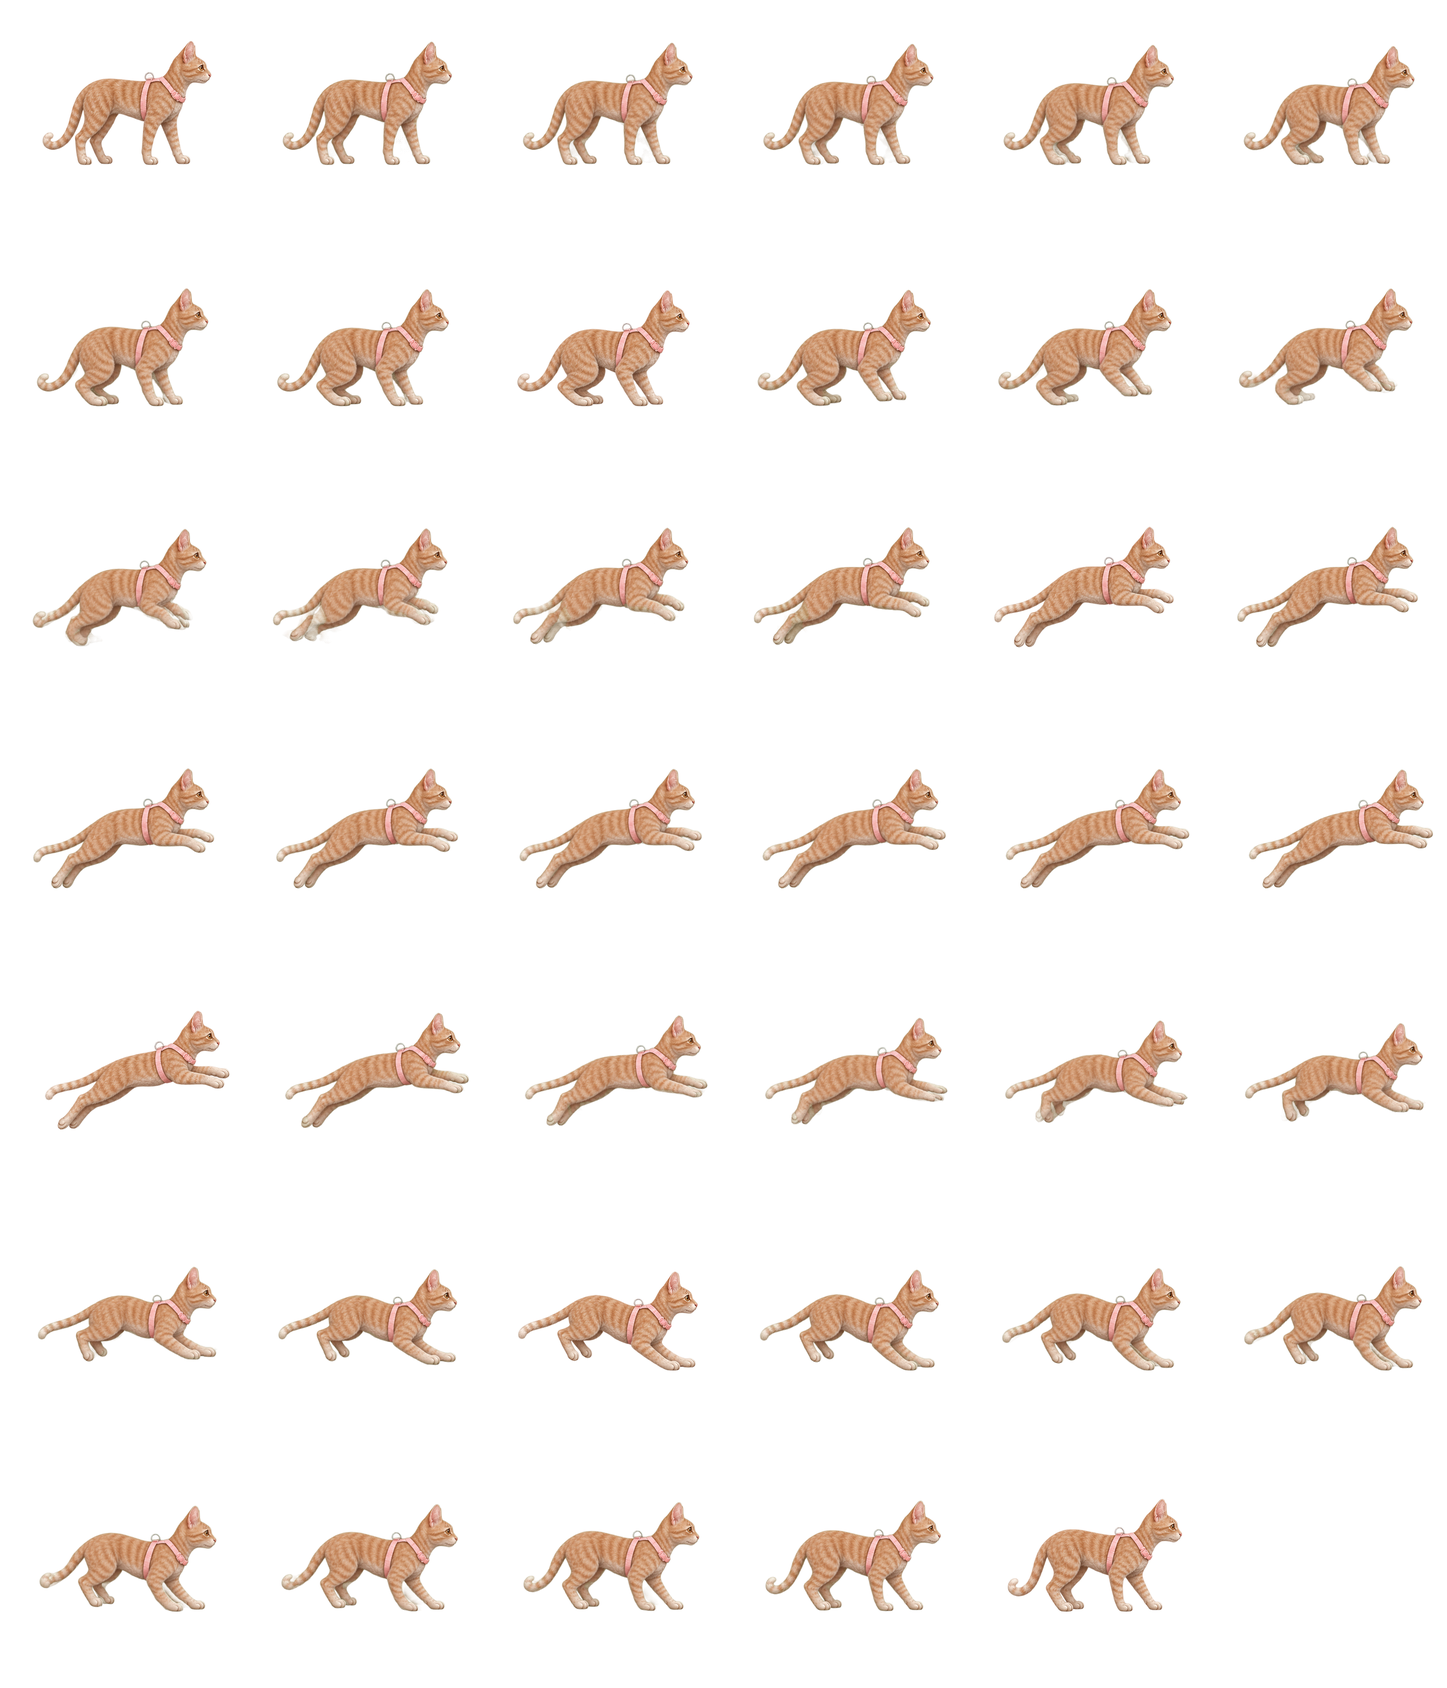
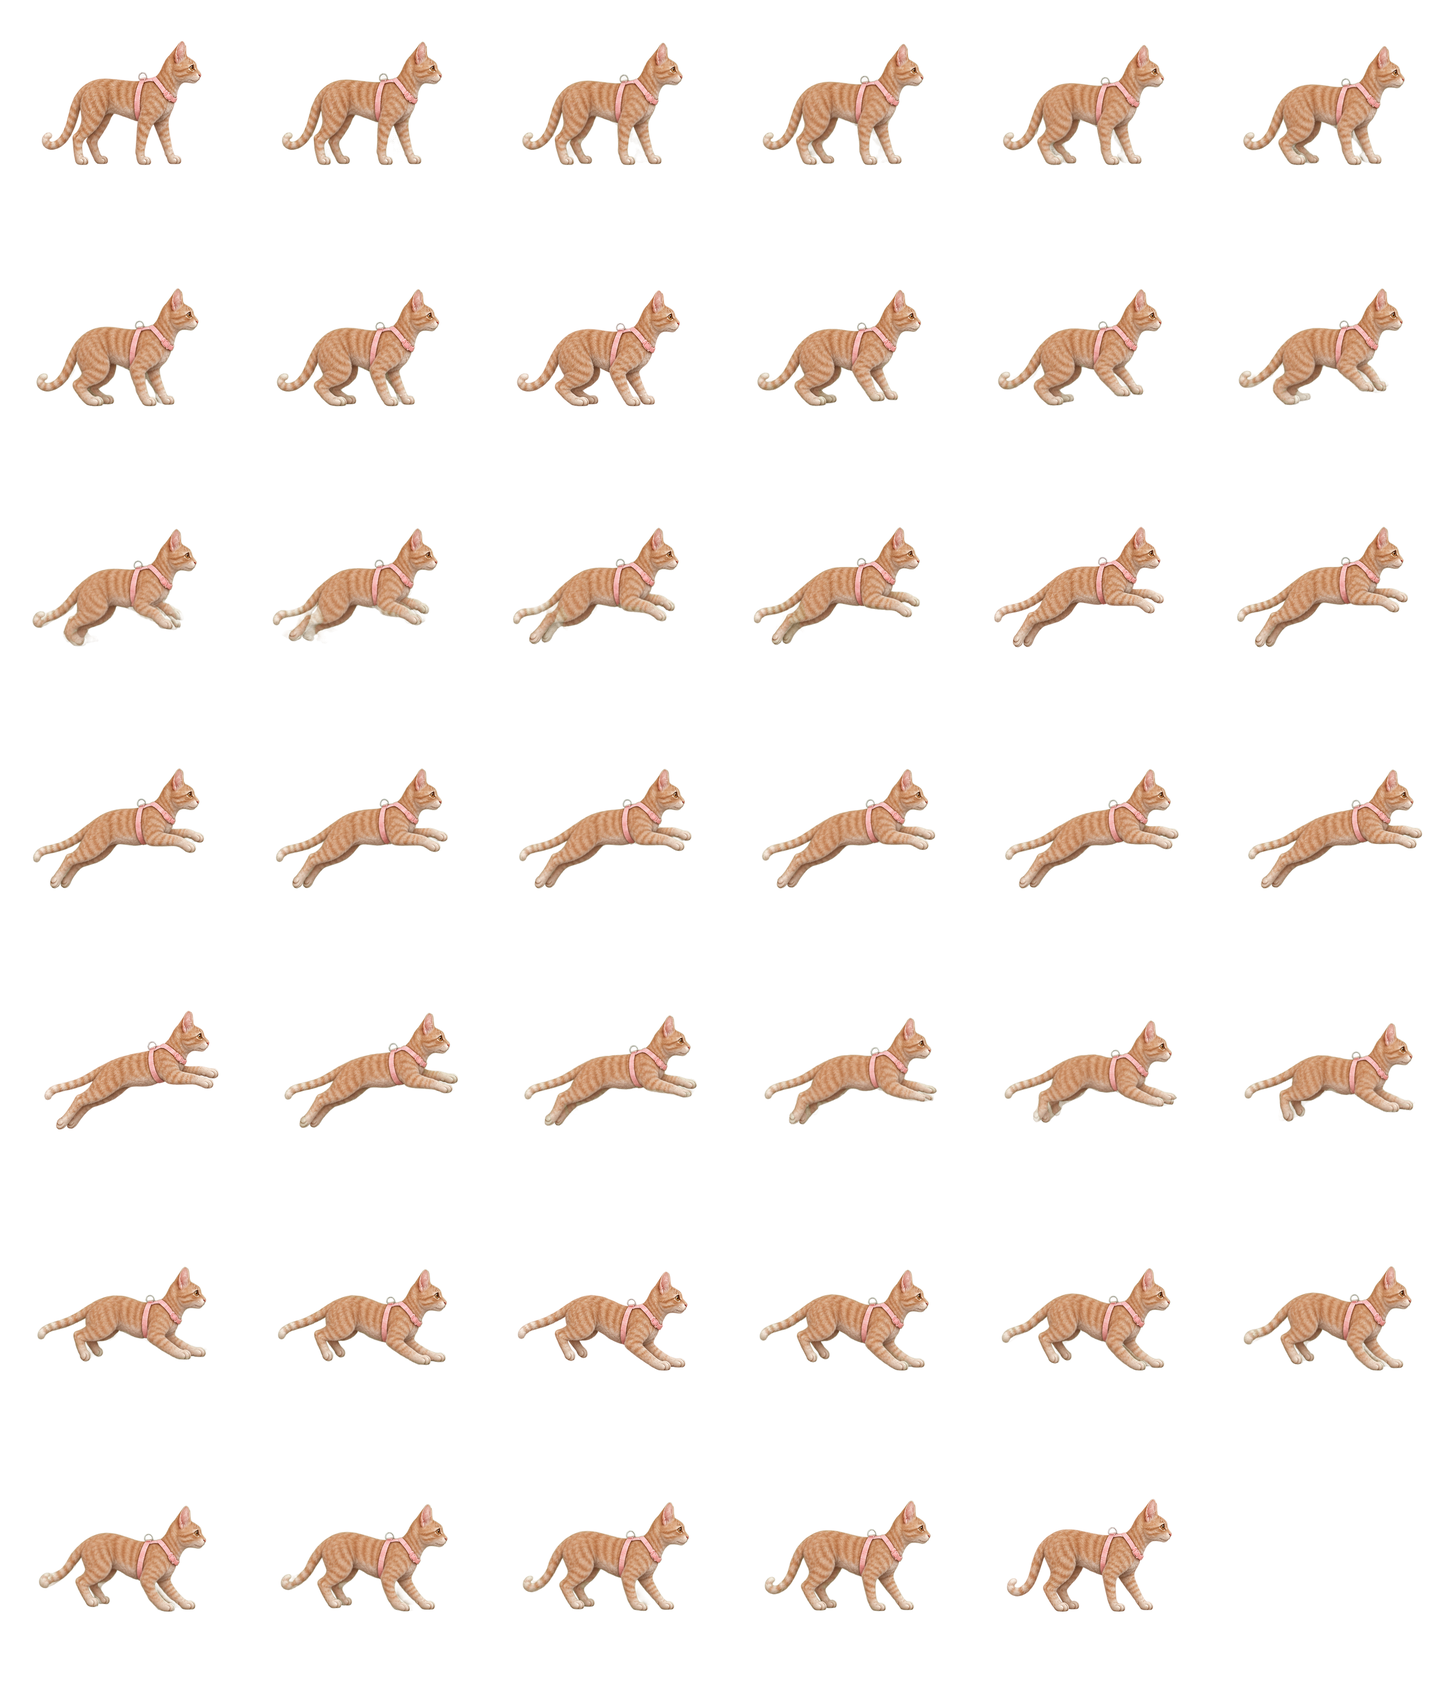
Release Jellybean v0.5.1 with breathing and drag inertia

diff --git a/src/Jellybean/UI/PetVisual.cs b/src/Jellybean/UI/PetVisual.cs
@@ -7,11 +7,25 @@ namespace Jellybean.UI;
 
 public sealed class PetVisual : FrameworkElement
 {
+    private readonly record struct Breathing(double X, double Y, double Width, double Height, double Depth)
+    {
+        public static Breathing Blend(Breathing from, Breathing to, double amount) => new(
+            Lerp(from.X, to.X, amount), Lerp(from.Y, to.Y, amount),
+            Lerp(from.Width, to.Width, amount), Lerp(from.Height, to.Height, amount),
+            Lerp(from.Depth, to.Depth, amount));
+
+        private static double Lerp(double from, double to, double amount) => from + (to - from) * amount;
+    }
+
+    private static readonly Breathing Standing = new(136, 87, 58, 49, 1.5);
+    private static readonly Breathing Sleeping = new(112, 114, 59, 37, 3.3);
+    private static readonly Breathing Ledge = new(103, 121, 55, 34, 2.9);
     private readonly PetMotionEffect _motion = new();
     private readonly ImageBrush _previousBrush = new() { Stretch = Stretch.Fill };
     private BitmapSource? _current, _transitionFrom;
     private string _clip = "";
-    private double _blendStart, _blendDuration, _time, _breathWeight = 1, _sway;
+    private double _blendStart, _blendDuration, _time;
+    private Breathing _breathing;
     public BitmapSource? CurrentFrame => _current;
     public BitmapSource? PreviousFrame => _previousBrush.ImageSource as BitmapSource;
 
@@ -23,23 +37,34 @@ public sealed class PetVisual : FrameworkElement
 
     public void Update(SpriteCatalog sprites, PetEngine engine)
     {
-        var dt=Math.Clamp(engine.AliveTime-_time,0,.1);
-        Present(sprites.Sample(engine.Animation, engine.RenderAge, engine.LoopAnimation), engine.Animation, engine.AliveTime, engine.State);
-        var target=engine.State==PetState.Drag?engine.DragSway:0;
-        _sway+=(target-_sway)*(1-Math.Exp(-dt*18));
-        _motion.Sway=_sway*Math.PI/180;
+        var clip = engine.Animation;
+        var state = engine.State;
+        var progress = state switch
+        {
+            PetState.LieDown => engine.LieProgress,
+            PetState.Rise => 1 - engine.RiseProgress,
+            PetState.Stretch => Math.Sin(Math.PI * Math.Clamp(engine.Age / 2.8, 0, 1)),
+            _ => 1.0
+        };
+        var sway = state == PetState.Drag ? engine.DragSway :
+            state == PetState.Fall && clip.StartsWith("held-", StringComparison.Ordinal)
+                ? engine.DragSway * Math.Max(0, 1 - engine.Age / .08) : default;
+        Present(sprites.Sample(clip, engine.RenderAge, engine.LoopAnimation), clip, engine.AliveTime, state, progress, sway);
     }
 
     public void Present(BitmapSource frame, string clip, double time, PetState state) =>
         Present(new SpriteSample(frame,frame,0),clip,time,state);
 
-    public void Present(SpriteSample sample, string clip, double time, PetState state)
+    public void Present(SpriteSample sample, string clip, double time, PetState state) =>
+        Present(sample, clip, time, state, 1, default);
+
+    private void Present(SpriteSample sample, string clip, double time, PetState state, double progress, Vector sway)
     {
         var dt = Math.Clamp(time - _time, 0, .1); _time = time;
         RenderOptions.SetBitmapScalingMode(this,sample.From.PixelWidth>SpriteCatalog.Width
             ? BitmapScalingMode.HighQuality : BitmapScalingMode.NearestNeighbor);
-        var targetBreath = state == PetState.Doze ? 1.35 : state is PetState.Walk or PetState.Stalk or PetState.ApproachJump or PetState.Pounce or PetState.Fall or PetState.Jump ? .25 : state==PetState.Drag?.45:1;
-        _breathWeight += (targetBreath - _breathWeight) * (1 - Math.Exp(-dt * 8));
+        var target = BreathingFor(clip, state, progress);
+        _breathing = _current is null ? target : Breathing.Blend(_breathing, target, 1 - Math.Exp(-dt * 14));
         if (clip != _clip)
         {
             _transitionFrom = Capture();
@@ -58,9 +83,32 @@ public sealed class PetVisual : FrameworkElement
             _current=sample.To; _previousBrush.ImageSource=sample.From;
             _motion.Mix=sample.Blend; _motion.PreviousFrozen=0;
         }
-        _motion.Breath=(Math.Sin(time*Math.PI*2/3.4)+1)*.7*_breathWeight;
-        _motion.Ear=Math.Pow(Math.Max(0,Math.Sin(time*.65)),24)*.65;
+        _motion.Breath = (.5 - .5 * Math.Cos(time * Math.Tau / 3.8)) * _breathing.Depth;
+        _motion.BreathCenter = new Point(_breathing.X / Width, _breathing.Y / Height);
+        _motion.BreathInverseExtent = new Point(Width / _breathing.Width, Height / _breathing.Height);
+        _motion.Ear = state == PetState.Idle ? Math.Pow(Math.Max(0, Math.Sin(time * .65)), 24) * .45 : 0;
+        _motion.Sway = new Point(sway.X, sway.Y);
         InvalidateVisual();
+    }
+
+    private static Breathing BreathingFor(string clip, PetState state, double progress)
+    {
+        var rest = clip.StartsWith("window-", StringComparison.Ordinal) ? Ledge : Sleeping;
+        var pose = state switch
+        {
+            PetState.Doze => rest,
+            PetState.LieDown or PetState.Rise => Breathing.Blend(Standing, rest, progress),
+            PetState.Pet or PetState.Perch or PetState.Peek => new(120, 110, 31, 46, 1.5),
+            PetState.Drag => new(116, 91, 32, 42, 1.2),
+            PetState.HuntAim or PetState.Catch => new(136, 119, 51, 34, 1.4),
+            PetState.Stalk or PetState.Pounce => new(136, 116, 55, 38, .7),
+            PetState.Stretch => Breathing.Blend(Standing, new(117, 101, 68, 43, 1.3), progress),
+            PetState.Walk or PetState.ApproachJump or PetState.Jump or PetState.Fall or PetState.Land => Standing with { Depth = .65 },
+            _ when clip is "front" or "front-three-quarter" or "rear" or "rear-three-quarter" => new(120, 101, 38, 49, 1.5),
+            _ => Standing
+        };
+        return clip.EndsWith("-left", StringComparison.Ordinal) || clip == "left-view"
+            ? pose with { X = SpriteCatalog.Width - pose.X } : pose;
     }
 
     protected override void OnRender(DrawingContext dc)

diff --git a/src/Jellybean/Engine/PetEngine.cs b/src/Jellybean/Engine/PetEngine.cs
@@ -27,6 +27,7 @@ public sealed class PetEngine
     private double _jumpDuration, _jumpVelocity, _actionDuration, _walkLength, _walkDuration, _walkDistance;
     private double _launchX, _approachSpeed, _pounceDuration, _pounceHeight, _huntDistance;
     private Point _targetOrigin, _dragStart, _dragTarget;
+    private Vector _dragVelocity, _dragSwayVelocity;
     private bool _toyActive, _restOnWindow, _fallLoop, _caughtToy;
     private double _toyLifetime, _peekGround, _effectRemaining;
     private string? _angle;
@@ -45,7 +46,9 @@ public sealed class PetEngine
     public Point ToyPosition { get; set; }
     public bool ToyActive => _toyActive;
     public bool ToyCaught => _caughtToy && State is PetState.Pounce or PetState.Catch;
-    public double DragSway { get; private set; }
+    public Vector DragSway { get; private set; }
+    internal double LieProgress => Math.Clamp(Age / LieSeconds, 0, 1);
+    internal double RiseProgress => Math.Clamp(RenderAge / RiseSeconds, 0, 1);
     public string? Bubble { get; private set; }
     public double EffectRemaining => _effectRemaining;
     public bool Hearts { get; private set; }
@@ -85,12 +88,7 @@ public sealed class PetEngine
         if (_refreshIn <= 0) { _surfaces.Refresh(); _refreshIn = .4; }
         if (State == PetState.Drag)
         {
-            var previousX=CenterX;
-            var lift=Smooth(Math.Clamp(Age/.16,0,1));
-            CenterX=_dragStart.X+(_dragTarget.X-_dragStart.X)*lift;
-            FeetY=_dragStart.Y+(_dragTarget.Y-_dragStart.Y)*lift;
-            var lean=Math.Clamp(-(CenterX-previousX)/Math.Max(dt,.001)*.018,-13,13);
-            DragSway+=(lean-DragSway)*(1-Math.Exp(-dt*10));
+            TickDrag(dt);
             return;
         }
         if (_support is null && State is not (PetState.Fall or PetState.Jump or PetState.Pounce)) Drop();
@@ -287,7 +285,32 @@ public sealed class PetEngine
     public void BeginDrag()
     {
         Interact(); FinishPeek(); StopToy(); _afterRise = null; _support = null; _velocityY = 0; SetState(PetState.Drag);
-        _dragStart=_dragTarget=new Point(CenterX,FeetY); DragSway=0;
+        _dragStart=_dragTarget=new Point(CenterX,FeetY);
+        _dragVelocity=_dragSwayVelocity=DragSway=default;
+    }
+
+    private void TickDrag(double dt)
+    {
+        var previous=new Point(CenterX,FeetY);
+        var lift=Smooth(Math.Clamp(Age/.16,0,1));
+        CenterX=_dragStart.X+(_dragTarget.X-_dragStart.X)*lift;
+        FeetY=_dragStart.Y+(_dragTarget.Y-_dragStart.Y)*lift;
+        if(dt<=0) return;
+
+        var velocity=(new Point(CenterX,FeetY)-previous)/(dt*_settings.Scale);
+        var change=(velocity-_dragVelocity)*(1-Math.Exp(-dt*23));
+        _dragVelocity+=change;
+        var acceleration=change/dt;
+        var target=new Vector(Math.Clamp(-acceleration.X*.0055,-7,7),
+                              Math.Clamp(-acceleration.Y*.002,-1.8,1.8));
+
+        // A damped swing responds to acceleration and settles during steady motion.
+        const double response=24;
+        var error=DragSway-target;
+        var slope=_dragSwayVelocity+response*error;
+        var decay=Math.Exp(-response*dt);
+        DragSway=target+(error+slope*dt)*decay;
+        _dragSwayVelocity=(_dragSwayVelocity-response*slope*dt)*decay;
     }
     public void DragTo(double x, double feet)
     {

diff --git a/src/Jellybean/UI/PetMotionEffect.cs b/src/Jellybean/UI/PetMotionEffect.cs
@@ -13,21 +13,26 @@ internal sealed class PetMotionEffect : ShaderEffect
     public static readonly DependencyProperty BreathProperty = Register("Breath", 0.0, 1);
     public static readonly DependencyProperty EarProperty = Register("Ear", 0.0, 2);
     public static readonly DependencyProperty PreviousFrozenProperty = Register("PreviousFrozen", 0.0, 3);
-    public static readonly DependencyProperty SwayProperty = Register("Sway", 0.0, 4);
+    public static readonly DependencyProperty SwayProperty = Register("Sway", new Point(), 4);
+    public static readonly DependencyProperty BreathCenterProperty = Register("BreathCenter", new Point(), 5);
+    public static readonly DependencyProperty BreathInverseExtentProperty = Register("BreathInverseExtent", new Point(), 6);
     public Brush Previous { get => (Brush)GetValue(PreviousProperty); set => SetValue(PreviousProperty, value); }
     public double Mix { get => (double)GetValue(MixProperty); set => SetValue(MixProperty, value); }
     public double Breath { get => (double)GetValue(BreathProperty); set => SetValue(BreathProperty, value); }
     public double Ear { get => (double)GetValue(EarProperty); set => SetValue(EarProperty, value); }
     public double PreviousFrozen { get => (double)GetValue(PreviousFrozenProperty); set => SetValue(PreviousFrozenProperty, value); }
-    public double Sway { get => (double)GetValue(SwayProperty); set => SetValue(SwayProperty, value); }
+    public Point Sway { get => (Point)GetValue(SwayProperty); set => SetValue(SwayProperty, value); }
+    public Point BreathCenter { get => (Point)GetValue(BreathCenterProperty); set => SetValue(BreathCenterProperty, value); }
+    public Point BreathInverseExtent { get => (Point)GetValue(BreathInverseExtentProperty); set => SetValue(BreathInverseExtentProperty, value); }
 
     public PetMotionEffect()
     {
         PixelShader = Shader;
-        foreach (var property in new[] { InputProperty, PreviousProperty, MixProperty, BreathProperty, EarProperty, PreviousFrozenProperty, SwayProperty }) UpdateShaderValue(property);
+        foreach (var property in new[] { InputProperty, PreviousProperty, MixProperty, BreathProperty, EarProperty,
+            PreviousFrozenProperty, SwayProperty, BreathCenterProperty, BreathInverseExtentProperty }) UpdateShaderValue(property);
     }
-    private static DependencyProperty Register(string name, double initial, int register) =>
-        DependencyProperty.Register(name, typeof(double), typeof(PetMotionEffect), new UIPropertyMetadata(initial, PixelShaderConstantCallback(register)));
+    private static DependencyProperty Register<T>(string name, T initial, int register) where T : struct =>
+        DependencyProperty.Register(name, typeof(T), typeof(PetMotionEffect), new UIPropertyMetadata(initial, PixelShaderConstantCallback(register)));
     private static PixelShader LoadShader()
     {
         var shader = new PixelShader { UriSource = new Uri(Path.Combine(AppContext.BaseDirectory, "Assets/pet-motion.ps")) };

diff --git a/tests/Jellybean.Smoke/MotionPreview.cs b/tests/Jellybean.Smoke/MotionPreview.cs
@@ -129,6 +129,45 @@ internal static class MotionPreview
         view.Present(sprites.Frame("pet",0),"pet",2.58,PetState.Pet); view.UpdateLayout();
         var blend=Bytes(view.Capture()!);
         if(!Enumerable.Range(0,240*240).Any(i=>blend[i*4+3]>=253)) throw new InvalidOperationException("Pose blending reduced the solid body alpha.");
+
+        foreach (var clip in new[] { "doze-right", "doze-left", "window-rest-right" })
+        {
+            var rest = new PetVisual();
+            rest.Measure(new Size(240,240)); rest.Arrange(new Rect(0,0,240,240));
+            var pose = sprites.Frame(clip, 0);
+            rest.Present(pose, clip, 0, PetState.Doze); rest.UpdateLayout();
+            var exhale = Bytes(rest.Capture()!);
+            rest.Present(pose, clip, 1.9, PetState.Doze); rest.UpdateLayout();
+            var inhale = Bytes(rest.Capture()!);
+            const int stride = 240 * 4;
+            var torso = 100 * stride;
+            var pawLine = 161 * stride;
+            if (exhale.AsSpan(torso, pawLine-torso).SequenceEqual(inhale.AsSpan(torso, pawLine-torso)) ||
+                !exhale.AsSpan(pawLine).SequenceEqual(inhale.AsSpan(pawLine)))
+                throw new InvalidOperationException($"Breathing must move the ribs and keep the support line fixed in {clip}.");
+        }
+
+        var held = new PetVisual();
+        held.Measure(new Size(240,240)); held.Arrange(new Rect(0,0,240,240));
+        held.Present(sprites.Frame("held-right",0),"held-right",0,PetState.Drag); held.UpdateLayout();
+        var neutral = Bytes(held.Capture()!);
+        ((PetMotionEffect)held.Effect).Sway = new Point(-7,0);
+        var trailing = Bytes(held.Capture()!);
+        double TailX(byte[] pixels)
+        {
+            var weight = 0; var total = 0;
+            for (var y = 137; y < 158; y++)
+                for (var x = 0; x < 240; x++)
+                {
+                    var alpha = pixels[(y * 240 + x) * 4 + 3];
+                    weight += alpha;
+                    total += alpha * x;
+                }
+            return (double)total / weight;
+        }
+        if (!neutral.AsSpan(0,SpriteCatalog.HeldNapeY * 240 * 4).SequenceEqual(trailing.AsSpan(0,SpriteCatalog.HeldNapeY * 240 * 4)) ||
+            !(TailX(neutral) - TailX(trailing) > 5))
+            throw new InvalidOperationException("The hanging body must sway in the requested direction around a fixed grip.");
     }
     private static byte[] Bytes(BitmapSource frame)
     { var pixels=new byte[240*240*4]; new FormatConvertedBitmap(frame,PixelFormats.Bgra32,null,0).CopyPixels(pixels,240*4,0); return pixels; }

diff --git a/tests/Jellybean.Smoke/Program.cs b/tests/Jellybean.Smoke/Program.cs
@@ -91,7 +91,8 @@ internal static class Program
 
             var sprites=new SpriteCatalog();
             MotionPreview.CheckRenderer(sprites);
-            Check(true,"breathing changes rendered pixels and pose blending retains solid alpha");
+            Check(true,"standing and prone breathing move the torso while paws stay planted");
+            Check(true,"the rendered hanging body moves around a fixed grip");
             foreach(var clip in new[]{"front","walk-left","walk-right","pounce-left","pounce-right","doze-left","pet","perch","stretch-right","rear"})
             {
                 var frame=sprites.Frame(clip,.8);
@@ -129,6 +130,27 @@ internal static class Program
         Check(Math.Abs(Math.Abs(engine.CenterX-x)-engine.RenderAge/PetEngine.WalkCycleSeconds*engine.WalkStride)<.01,"walk phase follows real distance through acceleration");
         engine.BeginDrag(); engine.Tick(.2);
         Check(engine.State==PetState.Drag && engine.Animation.StartsWith("held-"),"drag uses a dedicated hanging body pose");
+        const double tick=1.0/60;
+        var grip=new Point(engine.CenterX,engine.FeetY);
+        var handVelocity=new Vector();
+        void MoveGrip(Vector acceleration,int frames)
+        {
+            for(var i=0;i<frames;i++)
+            {
+                handVelocity+=acceleration*tick;
+                grip+=handVelocity*tick;
+                engine.DragTo(grip.X,grip.Y);
+                engine.Tick(tick);
+            }
+        }
+        var push=new Vector(850,-500);
+        MoveGrip(push,12);
+        Check(engine.DragSway.X < -2 && engine.DragSway.Y > .4,"hanging body trails opposite the hand's acceleration in both axes");
+        MoveGrip(default,36);
+        Check(engine.DragSway.Length < .15,"hanging body settles under the grip at constant speed");
+        MoveGrip(-push,12);
+        Check(engine.DragSway.X > 2 && engine.DragSway.Y < -.4,"hanging body swings forward when the hand brakes");
+        engine.DragTo(area.Left+area.Width/2,area.Bottom);
         engine.EndDrag(); engine.Tick(.6); engine.Doze(); engine.Tick(1.6);
         Check(engine.State==PetState.Doze,"lying down reaches a breathing rest pose");
         engine.Pet(); Check(engine.State==PetState.Rise,"interaction wakes a resting cat before petting");

diff --git a/tools/AssetPack/ApprovedActions.cs b/tools/AssetPack/ApprovedActions.cs
@@ -32,7 +32,8 @@ internal static partial class Program
             Add("doze", "sleep", [40], [1000]);
             Play("rise", "sleep", Range(0, 40).Reverse().ToArray(), 1100);
             Play("window-lie", "ledge", Range(0, 24), 1050);
-            Play("window-rest", "ledge", Range(24, 40), 2300);
+            var resting = Range(24, 40).Concat(Range(25, 39).Reverse()).ToArray();
+            Play("window-rest", "ledge", resting, 4300);
             Play("window-rise", "ledge", Range(0, 24).Reverse().ToArray(), 950);
         }
 

diff --git a/CHANGELOG.md b/CHANGELOG.md
@@ -1,5 +1,11 @@
 # 更新记录
 
+## v0.5.1
+
+- 以走路站姿为基准对齐侧身动作的体型比例和落脚线，窗沿趴卧往返衔接。
+- 呼吸随姿势集中在胸腹。趴睡时起伏更明显，活动时更轻。
+- 拎起后的后颈跟随鼠标，身体轻微偏向加速度的反方向。匀速移动时回垂，刹停时轻摆回正。
+
 ## v0.5.0
 
 - 接入起跳落地、伏身扑击、伸展、趴睡起身、窗沿趴卧、悬垂、摸摸眨眼和背身坐姿八组动画。动作图集按双倍分辨率保存，糖豆在桌面上的大小不变。

diff --git a/README.md b/README.md
@@ -2,7 +2,7 @@
 
 纪念糖豆的 Windows 二维像素桌宠。离线运行，沿用确认的形象和粉色背带。
 
-当前试用版为 **v0.5.0**。已接入确认过的八组高清动作，沿用 50 档原质感毛色和原来的走路动画。[更新记录](CHANGELOG.md)
+当前试用版为 **v0.5.1**。统一动作的体型比例，趴睡时胸腹有明显些的呼吸起伏，拎起移动时身体会随惯性轻摆。[更新记录](CHANGELOG.md)
 
 ## 使用
 
